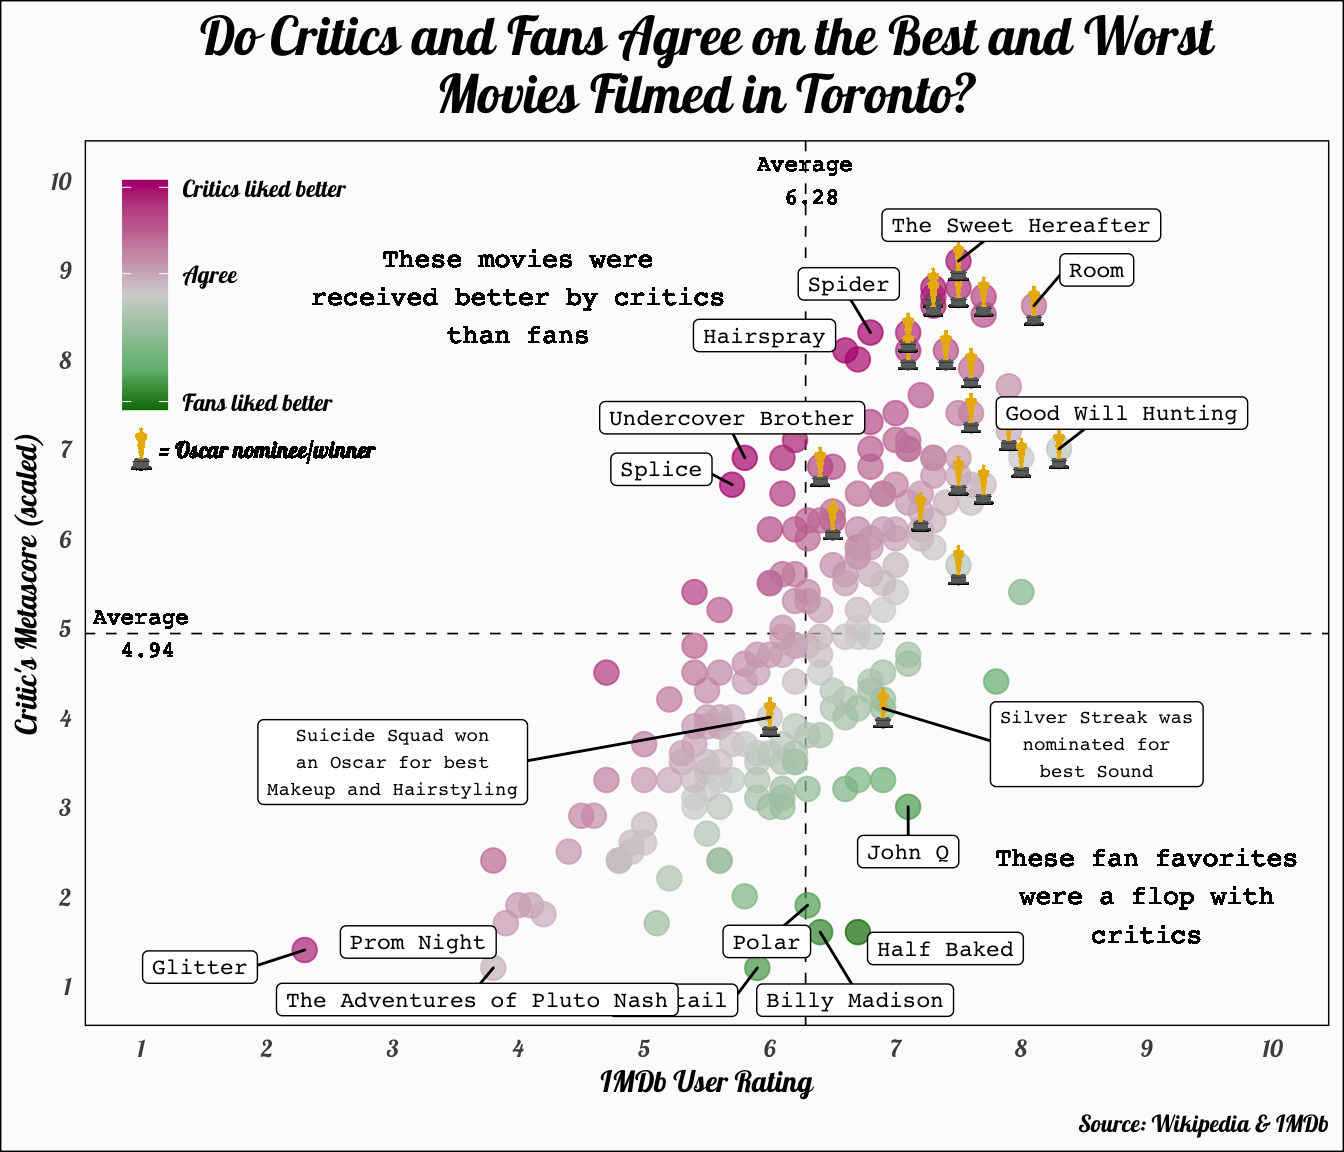
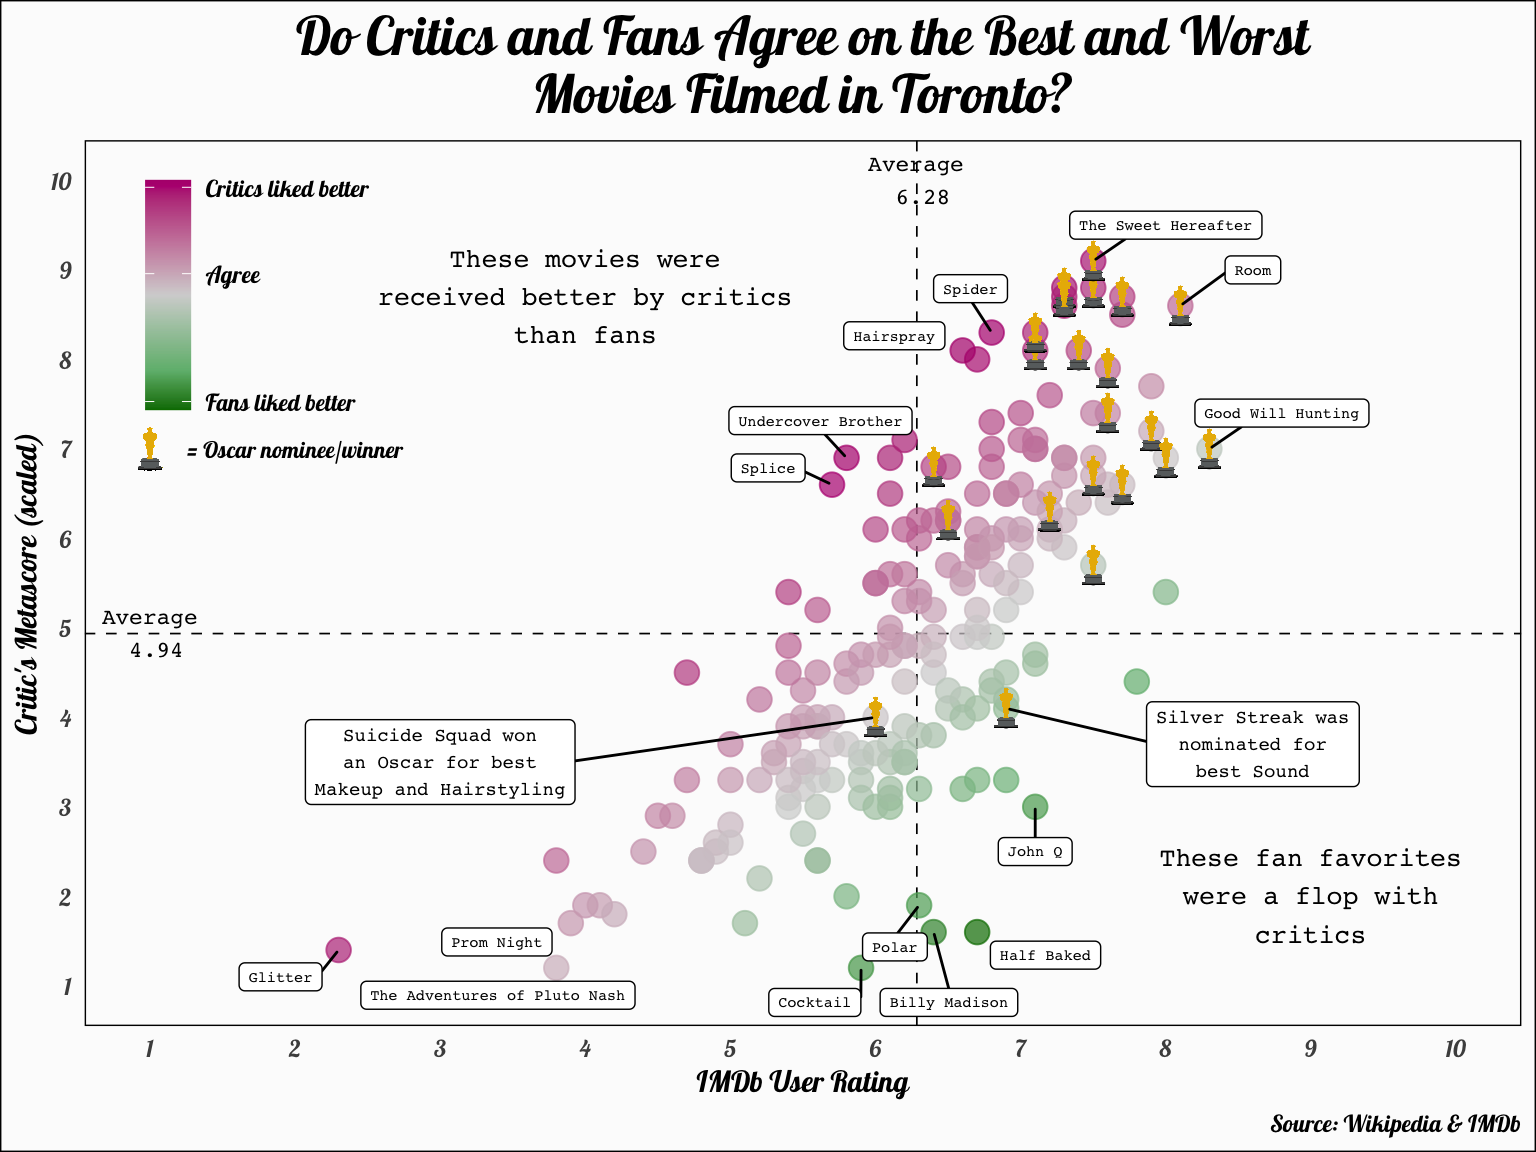
update

diff --git a/content/posts/to-movies/2021-03-28-toronto-movies.html b/content/posts/to-movies/2021-03-28-toronto-movies.html
@@ -13,11 +13,12 @@ page:
 slug: []
 ---
 
+<script src="/rmarkdown-libs/header-attrs/header-attrs.js"></script>
 
 
 <p>A fun fact about Toronto is that a lot of popular TV shows and movies are filmed in Toronto, even if they do not take place in Toronto. Some notable examples include Suicide Squard, Good Will Hunting, Room, and the 2001 Mariah Carey musical Glitter. The University of Toronto is also frequent filming location — trailers and crews can often be seen around campus (Fun fact: the famous “the limit does not exist” scene in Mean Girls, which was filmed in Convocation Hall).</p>
 <p>In the following visualization, I take a look at how critic and fan responses on IMDb compare for different movies filmed in Toronto. The data comes from IMBd and the list of movies filmed in Toronto comes from <a href="https://en.wikipedia.org/wiki/List_of_films_shot_in_Toronto">Wikipedia</a>. I adjusted my comparison to account for the fact critics, on average, give lower ratings than fans. So, for example, a rating of 4.94 from critics and a 6.28 from fans would be considered as agreement between the two parties.</p>
-<p><img src="/posts/to-movies/2021-03-28-toronto-movies_files/figure-html/unnamed-chunk-1-1.png" width="672" style="display: block; margin: auto;" /></p>
+<p><img src="/posts/to-movies/2021-03-28-toronto-movies_files/figure-html/unnamed-chunk-1-1.png" width="768" style="display: block; margin: auto;" /></p>
 <p>Critics and fans generally agree on the best and worst films. Sadly, not even Mariah’s most devout fans could find any redemptive qualities in Glitter. Another musical movie, Hairspray was received more positively by critics than fans, which is surprising for a musical. On the flip side, Half Baked, starring Dave Chappelle was considered above average by fans, but did not even warrant a rating of 2 from critics.</p>
 <p>Oscar nominations and wins were also consistently awarded to fans that were beloved by critics and fans alike. Suicide Squad and Silver Streak were a couple of notable exceptions, but they were nominated for non-acting categories.</p>
 <div id="code" class="section level1">
